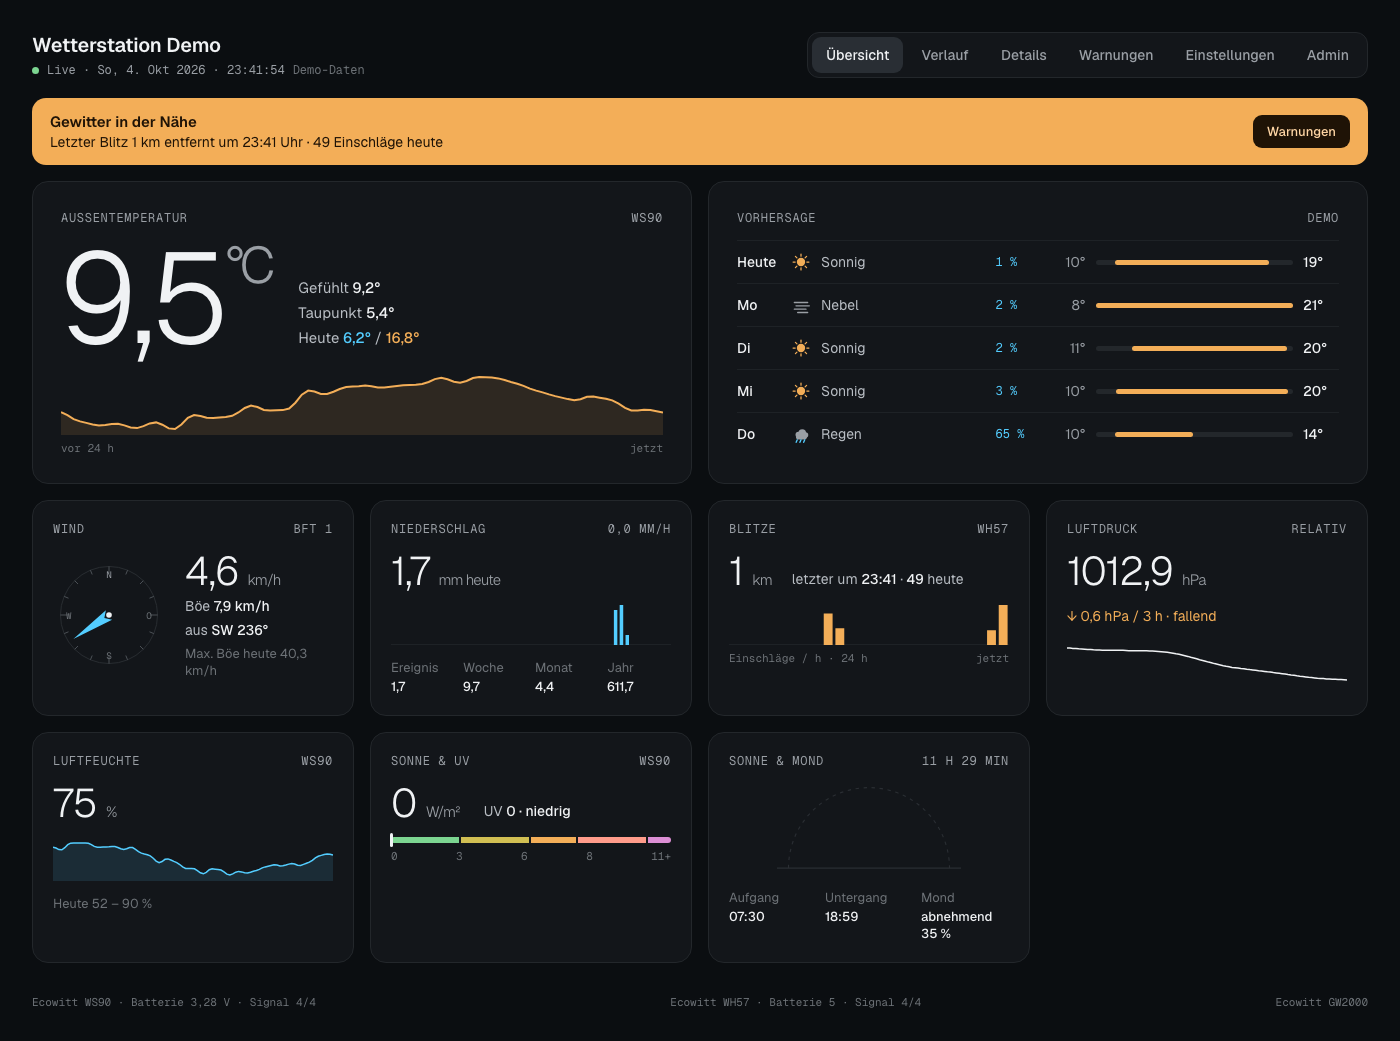
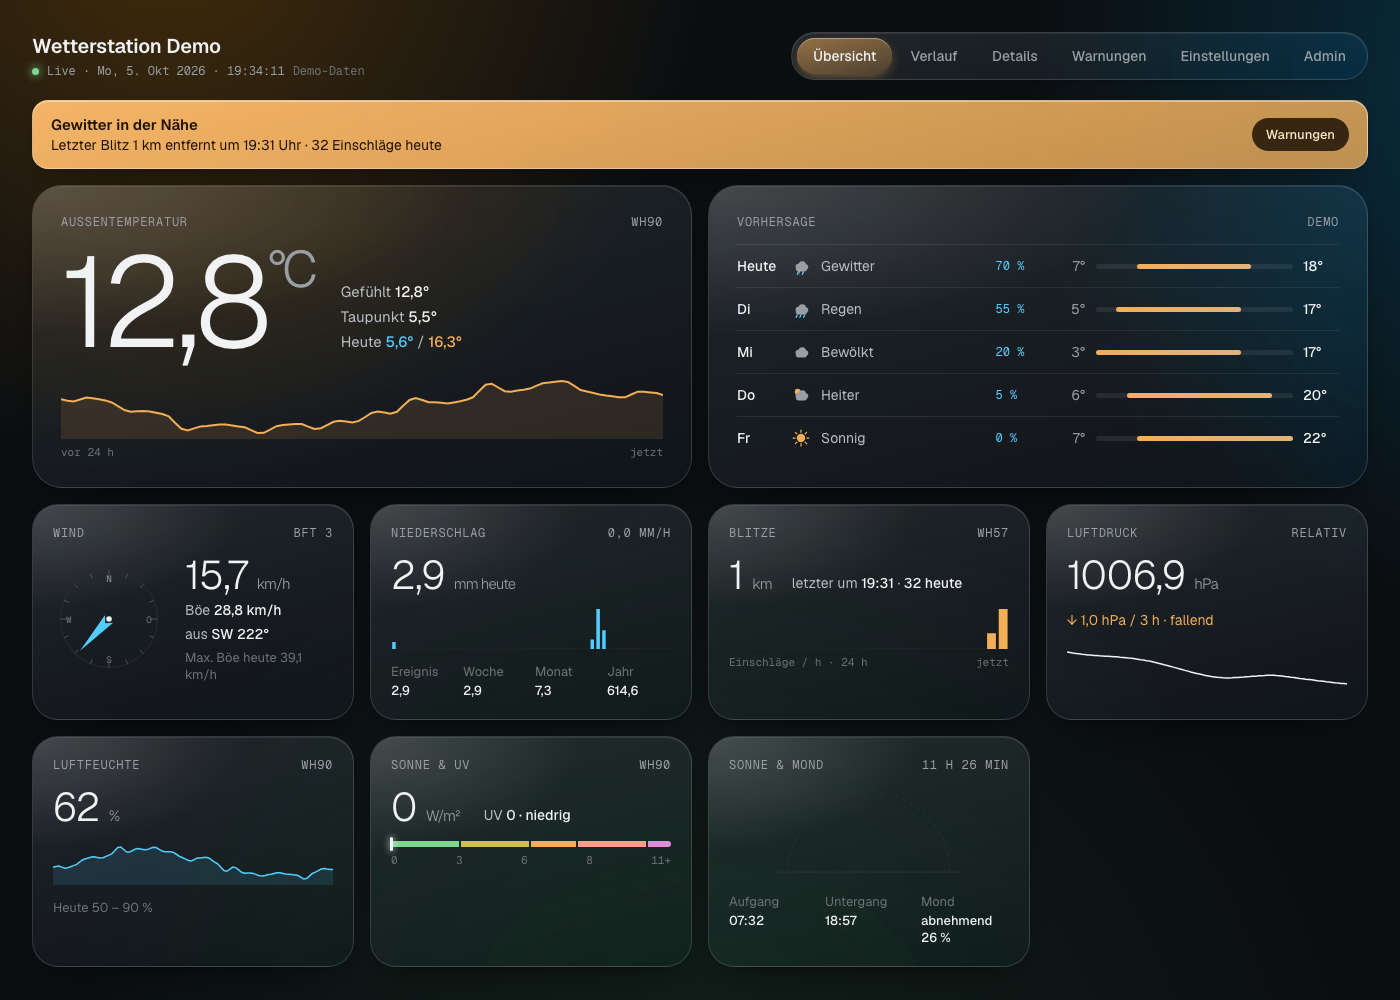
Redesign the dashboard with Liquid Glass
Every surface (cards, nav, chips, segmented controls, pills, banners,
buttons, tooltips) now renders as translucent, refractive Liquid Glass —
backdrop-filter blur + a low-opacity tint + a bright top-biased edge and a
soft specular highlight — instead of a flat fill, matching Apple's iOS 26
design language. Three large, soft ambient color gradients behind the page
(amber/blue/green, fixed to the viewport) give the glass something to
actually refract; without them a blurred flat background just looks like a
slightly lighter flat background. Inputs are the inverse treatment, a dark
recessed glass "well" rather than a raised surface. Selected/active states
(segmented controls, chips, alert pills, the primary button) swap the
neutral tint for a tinted amber/blue glass gradient instead of a flat fill.

Pure CSS — no new dependencies, no component/logic changes. Text and
numbers stay fully opaque throughout, so legibility at a glance (this app
is also used in kiosk/wall-mounted mode) is unaffected; only the surface
underneath is glass. Browsers without backdrop-filter support fall back to
a flat, fully opaque card via @supports.

Verified visually across every screen (Übersicht, Verlauf, Details,
Warnungen, Einstellungen, admin login and the full admin settings form) in
demo mode via headless-browser screenshots. README's hero screenshot
updated to match.

diff --git a/web/src/styles.css b/web/src/styles.css
@@ -19,15 +19,43 @@
   --font: 'Geist Variable', 'Geist', system-ui, -apple-system, 'Segoe UI', sans-serif;
   --mono: 'Geist Mono Variable', 'Geist Mono', ui-monospace, 'SF Mono', Menlo, monospace;
   color-scheme: dark;
+
+  /* ---- Liquid Glass: a translucent, refractive surface instead of a flat
+     fill. Needs something colorful behind it to actually refract (see the
+     ambient gradients on body below) and a bright, thin top edge to read as
+     a lit sheet of glass rather than frosted plastic. */
+  --glass-blur: blur(28px) saturate(165%);
+  --glass-tint: linear-gradient(165deg, oklch(1 0 0 / 0.1), oklch(1 0 0 / 0.025));
+  --glass-tint-strong: linear-gradient(165deg, oklch(1 0 0 / 0.16), oklch(1 0 0 / 0.04));
+  --glass-edge: oklch(1 0 0 / 0.14);
+  --glass-edge-soft: oklch(1 0 0 / 0.08);
+  --glass-shadow: 0 24px 48px -24px oklch(0 0 0 / 0.55), 0 2px 10px -4px oklch(0 0 0 / 0.4);
+  --glass-radius: 26px;
+  --glass-radius-sm: 16px;
 }
 
 * { box-sizing: border-box; }
-html, body { margin: 0; background: var(--bg); color: var(--text); font-family: var(--font); -webkit-font-smoothing: antialiased; }
+html, body {
+  margin: 0; min-height: 100%; color: var(--text); font-family: var(--font); -webkit-font-smoothing: antialiased;
+  background:
+    radial-gradient(900px circle at 12% -8%, oklch(0.6 0.15 70 / 0.32), transparent 60%),
+    radial-gradient(900px circle at 112% 8%, oklch(0.6 0.15 230 / 0.28), transparent 60%),
+    radial-gradient(1100px circle at 50% 115%, oklch(0.55 0.12 150 / 0.16), transparent 60%),
+    var(--bg);
+  background-attachment: fixed;
+  background-color: var(--bg);
+}
 a { color: var(--blue); text-decoration: none; }
 a:hover { color: oklch(0.9 0.08 230); }
 button { font-family: inherit; }
 :focus-visible { outline: 2px solid var(--blue); outline-offset: 2px; }
 @media (prefers-reduced-motion: reduce) { * { transition: none !important; animation: none !important; } }
+
+/* Glass surfaces need backdrop-filter; browsers without it fall back to a
+   flat, fully-opaque card so nothing becomes unreadable. */
+@supports not ((backdrop-filter: blur(1px)) or (-webkit-backdrop-filter: blur(1px))) {
+  .card, .nav, .segs, .chip, .pill, .banner, .tip, .btn-primary, .btn-ghost, .input { backdrop-filter: none !important; background: var(--card) !important; }
+}
 
 .page {
   min-height: 100vh; max-width: 1440px; margin: 0 auto;
@@ -38,29 +66,55 @@ button { font-family: inherit; }
 }
 .stack { display: flex; flex-direction: column; gap: 16px; }
 
-/* header */
+/* header — a floating glass capsule bar, like iOS's tab bar */
 .header { display: flex; flex-wrap: wrap; align-items: center; justify-content: space-between; gap: 12px 24px; }
 .title { font-size: 20px; font-weight: 600; letter-spacing: -0.01em; }
 .status { display: flex; flex-wrap: wrap; align-items: center; gap: 8px; font-family: var(--mono); font-size: 12px; color: var(--muted); }
-.dot { width: 7px; height: 7px; border-radius: 50%; background: var(--green); flex-shrink: 0; }
-.dot.stale { background: var(--faint); }
+.dot { width: 7px; height: 7px; border-radius: 50%; background: var(--green); flex-shrink: 0; box-shadow: 0 0 8px 1px color-mix(in oklch, var(--green) 70%, transparent); }
+.dot.stale { background: var(--faint); box-shadow: none; }
 .faint { color: var(--faint); }
-.nav { display: flex; gap: 4px; padding: 4px; border-radius: 12px; background: var(--card); border: 1px solid var(--border); overflow-x: auto; max-width: 100%; scrollbar-width: none; }
+.nav {
+  display: flex; gap: 2px; padding: 5px; border-radius: 999px; overflow-x: auto; max-width: 100%; scrollbar-width: none;
+  background: var(--glass-tint); backdrop-filter: var(--glass-blur); -webkit-backdrop-filter: var(--glass-blur);
+  border: 1px solid var(--glass-edge); box-shadow: var(--glass-shadow), inset 0 1px 0 var(--glass-edge-soft);
+}
 .nav::-webkit-scrollbar { display: none; }
-.seg { border: 0; cursor: pointer; white-space: nowrap; padding: 9px 14px; border-radius: 9px; font-size: 14px; font-weight: 500; background: transparent; color: var(--muted); }
+.seg {
+  border: 0; cursor: pointer; white-space: nowrap; padding: 9px 16px; border-radius: 999px; font-size: 14px; font-weight: 500;
+  background: transparent; color: var(--muted); transition: background 0.2s ease, color 0.2s ease;
+}
 .seg:hover { color: var(--text); }
-.seg.on { background: var(--sel); color: var(--text); }
-.seg.sm { padding: 7px 12px; border-radius: 7px; font-size: 13px; }
-.seg.xs { padding: 6px 11px; border-radius: 6px; font-size: 13px; }
-.segs { display: flex; gap: 4px; padding: 4px; border-radius: 10px; background: var(--card); border: 1px solid var(--border); }
-.segs.inset { padding: 3px; border-radius: 9px; background: var(--bg); }
+.seg.on {
+  color: var(--text); background: linear-gradient(165deg, color-mix(in oklch, var(--amber) 55%, transparent), color-mix(in oklch, var(--amber) 22%, transparent));
+  box-shadow: inset 0 1px 0 oklch(1 0 0 / 0.35), 0 4px 14px -4px color-mix(in oklch, var(--amber) 60%, transparent);
+}
+.seg.sm { padding: 7px 13px; }
+.seg.xs { padding: 6px 12px; font-size: 13px; }
+.segs {
+  display: flex; gap: 2px; padding: 4px; border-radius: 999px;
+  background: var(--glass-tint); backdrop-filter: var(--glass-blur); -webkit-backdrop-filter: var(--glass-blur);
+  border: 1px solid var(--glass-edge); box-shadow: inset 0 1px 0 var(--glass-edge-soft);
+}
+.segs.inset { padding: 3px; background: oklch(0 0 0 / 0.22); backdrop-filter: none; -webkit-backdrop-filter: none; box-shadow: inset 0 1px 3px oklch(0 0 0 / 0.4); }
 
-/* cards */
-.card { background: var(--card); border: 1px solid var(--border); border-radius: 16px; padding: 20px; display: flex; flex-direction: column; gap: 14px; min-width: 0; }
-.card.lg { padding: clamp(18px, 3vw, 28px); gap: 18px; }
-.card.md { padding: clamp(18px, 3vw, 24px); gap: 0; }
+/* cards — the core Liquid Glass surface, with a soft specular highlight
+   catching light from the top-left, like a lit pane of glass. */
+.card {
+  position: relative; isolation: isolate; overflow: hidden;
+  background: var(--glass-tint); backdrop-filter: var(--glass-blur); -webkit-backdrop-filter: var(--glass-blur);
+  border: 1px solid var(--glass-edge); border-radius: var(--glass-radius);
+  box-shadow: var(--glass-shadow), inset 0 1px 0 var(--glass-edge-soft);
+  padding: 20px; display: flex; flex-direction: column; gap: 14px; min-width: 0;
+  transition: border-color 0.2s ease, box-shadow 0.2s ease, transform 0.2s ease;
+}
+.card::before {
+  content: ''; position: absolute; inset: 0; z-index: -1; border-radius: inherit; pointer-events: none;
+  background: radial-gradient(120% 90% at 0% 0%, oklch(1 0 0 / 0.16), transparent 55%);
+}
+.card.lg { padding: clamp(18px, 3vw, 28px); gap: 18px; border-radius: calc(var(--glass-radius) + 4px); }
+.card.md { padding: clamp(18px, 3vw, 24px); gap: 0; border-radius: calc(var(--glass-radius) + 4px); }
 .card.link { cursor: pointer; text-align: left; color: inherit; font: inherit; }
-.card.link:hover { border-color: var(--border-hover); }
+.card.link:hover { border-color: var(--glass-edge); box-shadow: var(--glass-shadow), inset 0 1px 0 var(--glass-edge-soft), 0 0 0 1px color-mix(in oklch, var(--amber) 35%, transparent); transform: translateY(-1px); }
 .eyebrow { display: flex; justify-content: space-between; gap: 12px; font-family: var(--mono); font-size: 12px; letter-spacing: 0.06em; text-transform: uppercase; color: var(--muted); }
 .eyebrow.pad { padding-bottom: 12px; }
 .grid-hero { display: grid; grid-template-columns: repeat(auto-fit, minmax(min(100%, 380px), 1fr)); gap: 16px; }
@@ -82,36 +136,49 @@ button { font-family: inherit; }
 .mini .k { color: var(--faint); }
 .mini .v { font-weight: 500; }
 .spark { width: 100%; display: block; }
-.row { display: flex; justify-content: space-between; gap: 12px; padding: 10px 0; border-top: 1px solid var(--line); font-size: 14px; }
+.row { display: flex; justify-content: space-between; gap: 12px; padding: 10px 0; border-top: 1px solid oklch(1 0 0 / 0.08); font-size: 14px; }
 .row .k { color: var(--muted); }
 .row .v { text-align: right; }
 
 /* banner */
-.banner { display: flex; flex-wrap: wrap; align-items: center; justify-content: space-between; gap: 10px 20px; padding: 14px 18px; border-radius: 14px; background: var(--amber); color: oklch(0.2 0.03 70); }
-.banner.info { background: var(--blue); color: oklch(0.2 0.03 230); }
+.banner {
+  display: flex; flex-wrap: wrap; align-items: center; justify-content: space-between; gap: 10px 20px; padding: 14px 18px;
+  border-radius: var(--glass-radius-sm); color: oklch(0.2 0.03 70);
+  background: linear-gradient(165deg, color-mix(in oklch, var(--amber) 92%, white 8%), color-mix(in oklch, var(--amber) 78%, transparent));
+  backdrop-filter: var(--glass-blur); -webkit-backdrop-filter: var(--glass-blur);
+  border: 1px solid oklch(1 0 0 / 0.3); box-shadow: var(--glass-shadow), inset 0 1px 0 oklch(1 0 0 / 0.4);
+}
+.banner.info { color: oklch(0.2 0.03 230); background: linear-gradient(165deg, color-mix(in oklch, var(--blue) 92%, white 8%), color-mix(in oklch, var(--blue) 78%, transparent)); }
 .banner .t { font-weight: 600; font-size: 15px; }
 .banner .m { font-size: 14px; }
-.banner button { border: 0; cursor: pointer; padding: 8px 14px; border-radius: 9px; background: oklch(0.2 0.03 70); color: oklch(0.9 0.08 70); font-size: 13px; font-weight: 500; }
-.banner.info button { background: oklch(0.2 0.03 230); color: oklch(0.9 0.08 230); }
+.banner button { border: 0; cursor: pointer; padding: 8px 14px; border-radius: 999px; background: oklch(0.2 0.03 70 / 0.85); color: oklch(0.95 0.05 70); font-size: 13px; font-weight: 500; }
+.banner.info button { background: oklch(0.2 0.03 230 / 0.85); color: oklch(0.95 0.05 230); }
 
 /* forecast */
-.fc-row { display: grid; grid-template-columns: 44px 20px minmax(0, 1fr) 44px 36px minmax(60px, 1.2fr) 36px; align-items: center; gap: 10px; padding: 11px 0; border-top: 1px solid var(--line); font-size: 14px; }
+.fc-row { display: grid; grid-template-columns: 44px 20px minmax(0, 1fr) 44px 36px minmax(60px, 1.2fr) 36px; align-items: center; gap: 10px; padding: 11px 0; border-top: 1px solid oklch(1 0 0 / 0.08); font-size: 14px; }
 .fc-icon { display: flex; align-items: center; }
 .fc-row .cond { color: var(--text-2); overflow: hidden; text-overflow: ellipsis; white-space: nowrap; }
 .fc-row .pop { font-family: var(--mono); font-size: 12px; color: var(--blue); }
 .fc-row .lo { text-align: right; color: var(--muted); }
-.fc-bar { position: relative; height: 5px; border-radius: 3px; background: var(--border); }
-.fc-bar > div { position: absolute; top: 0; bottom: 0; border-radius: 3px; background: var(--amber); }
+.fc-bar { position: relative; height: 5px; border-radius: 3px; background: oklch(1 0 0 / 0.08); }
+.fc-bar > div { position: absolute; top: 0; bottom: 0; border-radius: 3px; background: linear-gradient(90deg, var(--amber), color-mix(in oklch, var(--amber) 70%, white 20%)); }
 
 /* uv scale */
 .uv-scale { position: relative; display: grid; grid-template-columns: 3fr 3fr 2fr 3fr 1fr; gap: 2px; height: 6px; }
-.uv-scale .mark { position: absolute; top: -4px; width: 3px; height: 14px; border-radius: 2px; background: var(--text); margin-left: -1.5px; }
+.uv-scale .mark { position: absolute; top: -4px; width: 3px; height: 14px; border-radius: 2px; background: var(--text); margin-left: -1.5px; box-shadow: 0 0 6px 1px oklch(1 0 0 / 0.5); }
 
 /* chips */
 .chips { display: flex; flex-wrap: wrap; gap: 6px; }
-.chip { white-space: nowrap; cursor: pointer; padding: 8px 13px; border-radius: 999px; font-size: 13px; font-weight: 500; border: 1px solid var(--line-strong); background: transparent; color: var(--text); }
+.chip {
+  white-space: nowrap; cursor: pointer; padding: 8px 14px; border-radius: 999px; font-size: 13px; font-weight: 500; color: var(--text);
+  background: var(--glass-tint); backdrop-filter: var(--glass-blur); -webkit-backdrop-filter: var(--glass-blur);
+  border: 1px solid var(--glass-edge); transition: border-color 0.2s ease, background 0.2s ease;
+}
 .chip:hover { border-color: var(--border-hover); }
-.chip.on { background: var(--text); color: var(--bg); border-color: var(--text); }
+.chip.on {
+  background: linear-gradient(165deg, color-mix(in oklch, var(--amber) 55%, transparent), color-mix(in oklch, var(--amber) 22%, transparent));
+  border-color: oklch(1 0 0 / 0.35); box-shadow: inset 0 1px 0 oklch(1 0 0 / 0.35), 0 4px 14px -4px color-mix(in oklch, var(--amber) 60%, transparent);
+}
 
 /* chart */
 .chart-wrap { display: grid; grid-template-columns: 44px minmax(0, 1fr); gap: 8px; }
@@ -122,7 +189,11 @@ button { font-family: inherit; }
 .plot svg { position: absolute; inset: 0; width: 100%; height: 100%; pointer-events: none; }
 .hair { position: absolute; top: 0; bottom: 0; width: 1px; background: var(--faint); pointer-events: none; }
 .hdot { position: absolute; width: 10px; height: 10px; margin: -5px 0 0 -5px; border-radius: 50%; border: 2px solid var(--bg); pointer-events: none; }
-.tip { position: absolute; top: 8px; pointer-events: none; padding: 8px 11px; border-radius: 9px; background: var(--border); border: 1px solid oklch(0.35 0.01 250); display: flex; flex-direction: column; gap: 2px; white-space: nowrap; box-shadow: 0 6px 20px oklch(0 0 0 / 0.35); z-index: 2; }
+.tip {
+  position: absolute; top: 8px; pointer-events: none; padding: 8px 12px; border-radius: var(--glass-radius-sm); display: flex; flex-direction: column; gap: 2px; white-space: nowrap; z-index: 2;
+  background: var(--glass-tint-strong); backdrop-filter: blur(20px) saturate(180%); -webkit-backdrop-filter: blur(20px) saturate(180%);
+  border: 1px solid var(--glass-edge); box-shadow: 0 10px 28px -8px oklch(0 0 0 / 0.5), inset 0 1px 0 var(--glass-edge-soft);
+}
 .tip .tv { font-size: 16px; font-weight: 500; }
 .tip .tt { font-family: var(--mono); font-size: 11px; color: var(--muted); }
 .empty { position: absolute; inset: 0; display: grid; place-items: center; color: var(--faint); font-size: 14px; }
@@ -137,7 +208,7 @@ button { font-family: inherit; }
 .stats .k { font-size: 12px; color: var(--faint); }
 .stats .v { font-size: 18px; font-weight: 500; }
 .rec-table { min-width: 520px; display: flex; flex-direction: column; }
-.rec-row { display: grid; grid-template-columns: 1.3fr 1fr 1fr 1fr 1fr; gap: 12px; padding: 12px 0; border-top: 1px solid var(--line); font-size: 14px; }
+.rec-row { display: grid; grid-template-columns: 1.3fr 1fr 1fr 1fr 1fr; gap: 12px; padding: 12px 0; border-top: 1px solid oklch(1 0 0 / 0.08); font-size: 14px; }
 .rec-row.head { border-top: 0; padding: 8px 0; font-size: 12px; color: var(--faint); }
 .rec-row .d { color: var(--muted); }
 .scroll-x { overflow-x: auto; }
@@ -145,17 +216,29 @@ button { font-family: inherit; }
 /* detail */
 .detail-num { font-size: clamp(64px, 12vw, 112px); font-weight: 300; letter-spacing: -0.04em; line-height: 0.9; }
 .detail-num .u { font-size: 0.3em; margin-left: 8px; }
-.btn-ghost { align-self: flex-start; cursor: pointer; padding: 9px 14px; border-radius: 9px; border: 1px solid oklch(0.32 0.01 250); background: transparent; color: var(--text); font-size: 13px; font-weight: 500; }
+.btn-ghost {
+  align-self: flex-start; cursor: pointer; padding: 9px 16px; border-radius: 999px; font-size: 13px; font-weight: 500; color: var(--text);
+  background: var(--glass-tint); backdrop-filter: var(--glass-blur); -webkit-backdrop-filter: var(--glass-blur);
+  border: 1px solid var(--glass-edge); box-shadow: inset 0 1px 0 var(--glass-edge-soft); transition: border-color 0.2s ease, transform 0.1s ease;
+}
 .btn-ghost:hover { border-color: var(--border-hover); }
+.btn-ghost:active { transform: scale(0.97); }
 
 /* alerts */
-.rule { display: flex; align-items: center; justify-content: space-between; gap: 16px; padding: 14px 0; border-top: 1px solid var(--line); }
+.rule { display: flex; align-items: center; justify-content: space-between; gap: 16px; padding: 14px 0; border-top: 1px solid oklch(1 0 0 / 0.08); }
 .rule .l { font-size: 15px; font-weight: 500; }
 .rule .c { font-size: 13px; color: var(--muted); }
-.pill { flex-shrink: 0; padding: 5px 10px; border-radius: 999px; font-size: 12px; font-weight: 500; white-space: nowrap; background: var(--border); color: var(--muted); }
-.pill.on { background: var(--amber); color: oklch(0.2 0.03 70); }
-.pill.on.info { background: var(--blue); color: oklch(0.2 0.03 230); }
-.log { display: grid; grid-template-columns: 10px minmax(0, 1fr) auto; align-items: baseline; gap: 12px; padding: 13px 0; border-top: 1px solid var(--line); }
+.pill {
+  flex-shrink: 0; padding: 5px 11px; border-radius: 999px; font-size: 12px; font-weight: 500; white-space: nowrap; color: var(--muted);
+  background: oklch(1 0 0 / 0.06); backdrop-filter: blur(12px); -webkit-backdrop-filter: blur(12px); border: 1px solid var(--glass-edge-soft);
+}
+.pill.on {
+  color: oklch(0.2 0.03 70); border-color: oklch(1 0 0 / 0.3);
+  background: linear-gradient(165deg, color-mix(in oklch, var(--amber) 95%, white 5%), color-mix(in oklch, var(--amber) 80%, transparent));
+  box-shadow: inset 0 1px 0 oklch(1 0 0 / 0.4);
+}
+.pill.on.info { color: oklch(0.2 0.03 230); background: linear-gradient(165deg, color-mix(in oklch, var(--blue) 95%, white 5%), color-mix(in oklch, var(--blue) 80%, transparent)); }
+.log { display: grid; grid-template-columns: 10px minmax(0, 1fr) auto; align-items: baseline; gap: 12px; padding: 13px 0; border-top: 1px solid oklch(1 0 0 / 0.08); }
 .log .ld { width: 8px; height: 8px; border-radius: 50%; }
 .log .lt { font-size: 14px; font-weight: 500; }
 .log .lx { font-size: 13px; color: var(--muted); }
@@ -169,13 +252,24 @@ button { font-family: inherit; }
 .field { display: flex; flex-direction: column; gap: 6px; }
 .label { font-size: 13px; font-weight: 500; color: var(--text-2); }
 .label .faint { font-weight: 400; }
-.input { font: inherit; font-size: 14px; color: var(--text); background: var(--bg); border: 1px solid var(--border); border-radius: 9px; padding: 10px 12px; width: 100%; }
+.input {
+  font: inherit; font-size: 14px; color: var(--text); border-radius: var(--glass-radius-sm); padding: 10px 13px; width: 100%;
+  background: oklch(0 0 0 / 0.22); border: 1px solid var(--glass-edge-soft); box-shadow: inset 0 1px 4px oklch(0 0 0 / 0.35);
+  transition: border-color 0.2s ease;
+}
 .input:hover { border-color: var(--border-hover); }
+.input:focus-visible { border-color: color-mix(in oklch, var(--blue) 60%, transparent); }
 .input:disabled { color: var(--faint); cursor: not-allowed; }
 .input::placeholder { color: var(--faint); }
-.btn-primary { cursor: pointer; padding: 10px 16px; border-radius: 9px; border: 1px solid var(--text); background: var(--text); color: var(--bg); font-size: 14px; font-weight: 500; }
-.btn-primary:hover { background: var(--text-2); border-color: var(--text-2); }
-.btn-primary:disabled { cursor: not-allowed; background: var(--border); border-color: var(--border); color: var(--faint); }
+.btn-primary {
+  cursor: pointer; padding: 11px 18px; border-radius: 999px; font-size: 14px; font-weight: 600; color: oklch(0.2 0.03 70);
+  background: linear-gradient(165deg, color-mix(in oklch, var(--amber) 95%, white 8%), color-mix(in oklch, var(--amber) 75%, transparent));
+  border: 1px solid oklch(1 0 0 / 0.35); box-shadow: var(--glass-shadow), inset 0 1px 0 oklch(1 0 0 / 0.45);
+  backdrop-filter: var(--glass-blur); -webkit-backdrop-filter: var(--glass-blur); transition: transform 0.1s ease, filter 0.2s ease;
+}
+.btn-primary:hover { filter: brightness(1.08); }
+.btn-primary:active { transform: scale(0.98); }
+.btn-primary:disabled { cursor: not-allowed; filter: none; color: var(--faint); background: oklch(1 0 0 / 0.06); border-color: var(--glass-edge-soft); box-shadow: none; }
 .form-error { font-size: 13px; color: var(--amber); }
 .form-note { font-size: 13px; color: var(--green); }
 .auth-page { min-height: 100vh; display: grid; place-items: center; padding: 24px; }

diff --git a/CLAUDE.md b/CLAUDE.md
@@ -288,11 +288,12 @@ The response types in `web/src/lib.ts` are maintained by hand. There is no share
   - Dates use `parts()` / `longDate()` / `clock()` / `hhmm()`, which switch between German and English short names without dots (`Mi`/`Wed`, `Sep`) and date-part ordering based on the current language. Clock stays 24-hour in both languages.
 - **Live indicator:** grey and "Veraltet" if `now − current.updated > ui.stale_after_seconds`. `updated` is the max `lu` of the configured sensors, which only changes when a value changes, so on calm nights use 300 s or more.
 - **Design tokens** (in `styles.css`):
-  - Background `oklch(0.16 0.008 250)`, card `oklch(0.2 0.008 250)`, border `oklch(0.27 0.01 250)`
+  - Background `oklch(0.16 0.008 250)`, base card tint `oklch(0.2 0.008 250)`, border `oklch(0.27 0.01 250)`
   - Accents: amber `oklch(0.8 0.13 70)` (heat, sun, lightning, warnings), blue `oklch(0.8 0.13 230)` (water, wind, cold), green `oklch(0.8 0.13 150)` (ok)
   - Fonts: Geist and Geist Mono, self-hosted via `@fontsource-variable`
-  - Radius: cards 16 px, buttons 9 px, chips pill-shaped
+  - Radius: cards 26 px (`--glass-radius`), buttons/chips/nav/pills fully pill-shaped
   - Layout: card grid `repeat(auto-fill, minmax(min(100%,300px),1fr))`, no fixed breakpoints
+- **Liquid Glass**: every surface (`.card`, `.nav`, `.segs`, `.chip`, `.pill`, `.banner`, `.tip`, `.btn-primary`, `.btn-ghost`) is translucent, not a flat fill — `backdrop-filter: blur(28px) saturate(165%)` (`--glass-blur`) over a low-opacity white gradient tint (`--glass-tint`), a bright 1px top-biased edge, and a soft top-left specular highlight (`.card::before`'s radial-gradient). This only reads as glass because there's something colorful behind it to refract: `body`'s background is three large, soft `radial-gradient` "ambient blobs" (amber top-left, blue top-right, green bottom) over the base `--bg`, `background-attachment: fixed` so they stay put while content scrolls. A selected/active state (`.seg.on`, `.chip.on`, `.pill.on`, `.btn-primary`) swaps the neutral tint for an amber (or blue for `.banner.info`/`.pill.on.info`) tinted glass gradient instead of a flat fill. `.input` is the inverse — a dark recessed glass "well" (`inset box-shadow`, no blur) rather than a raised surface, to read as a field you type into, not a panel. Text and numbers stay fully opaque at all times; only the surface underneath them is glass, so legibility at a glance (this app is also used in kiosk/wall-mounted mode) is unaffected. `@supports not (backdrop-filter: ...)` falls every glass surface back to a flat opaque `--card` fill for browsers without it, rather than leaving anything semi-transparent and hard to read.
 - **Charts** are hand-written SVG (`linePath`, `areaPath`, `barsPath`) in an 800×300 viewBox with `preserveAspectRatio="none"`.
   - Hover snaps to the nearest measured point.
   - The tooltip flips to the left in the right quarter of the chart.
